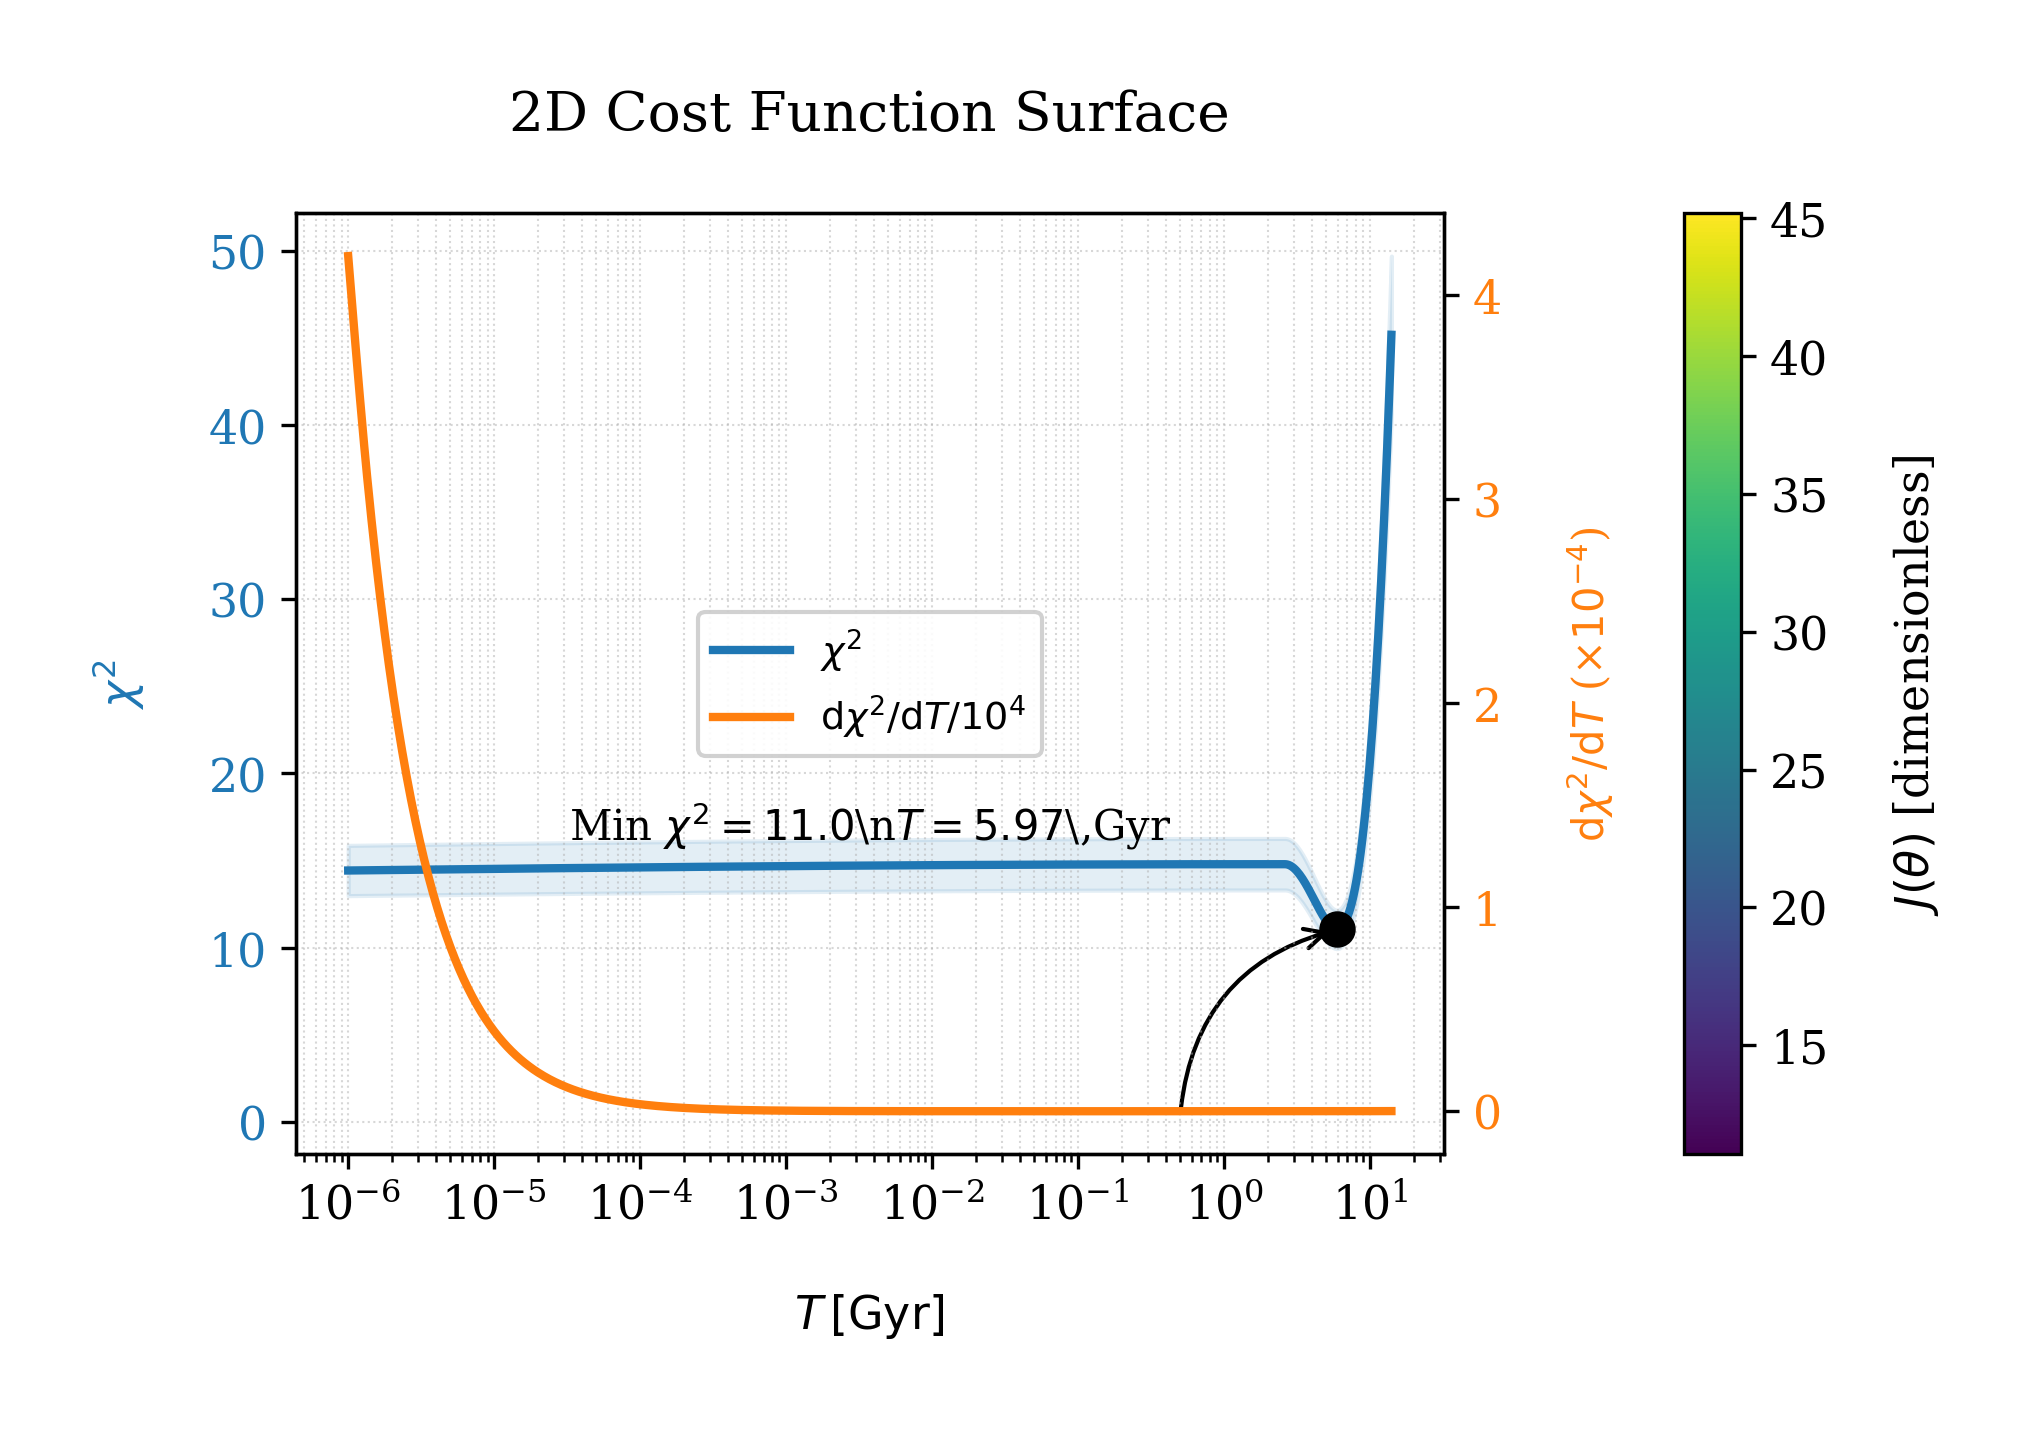
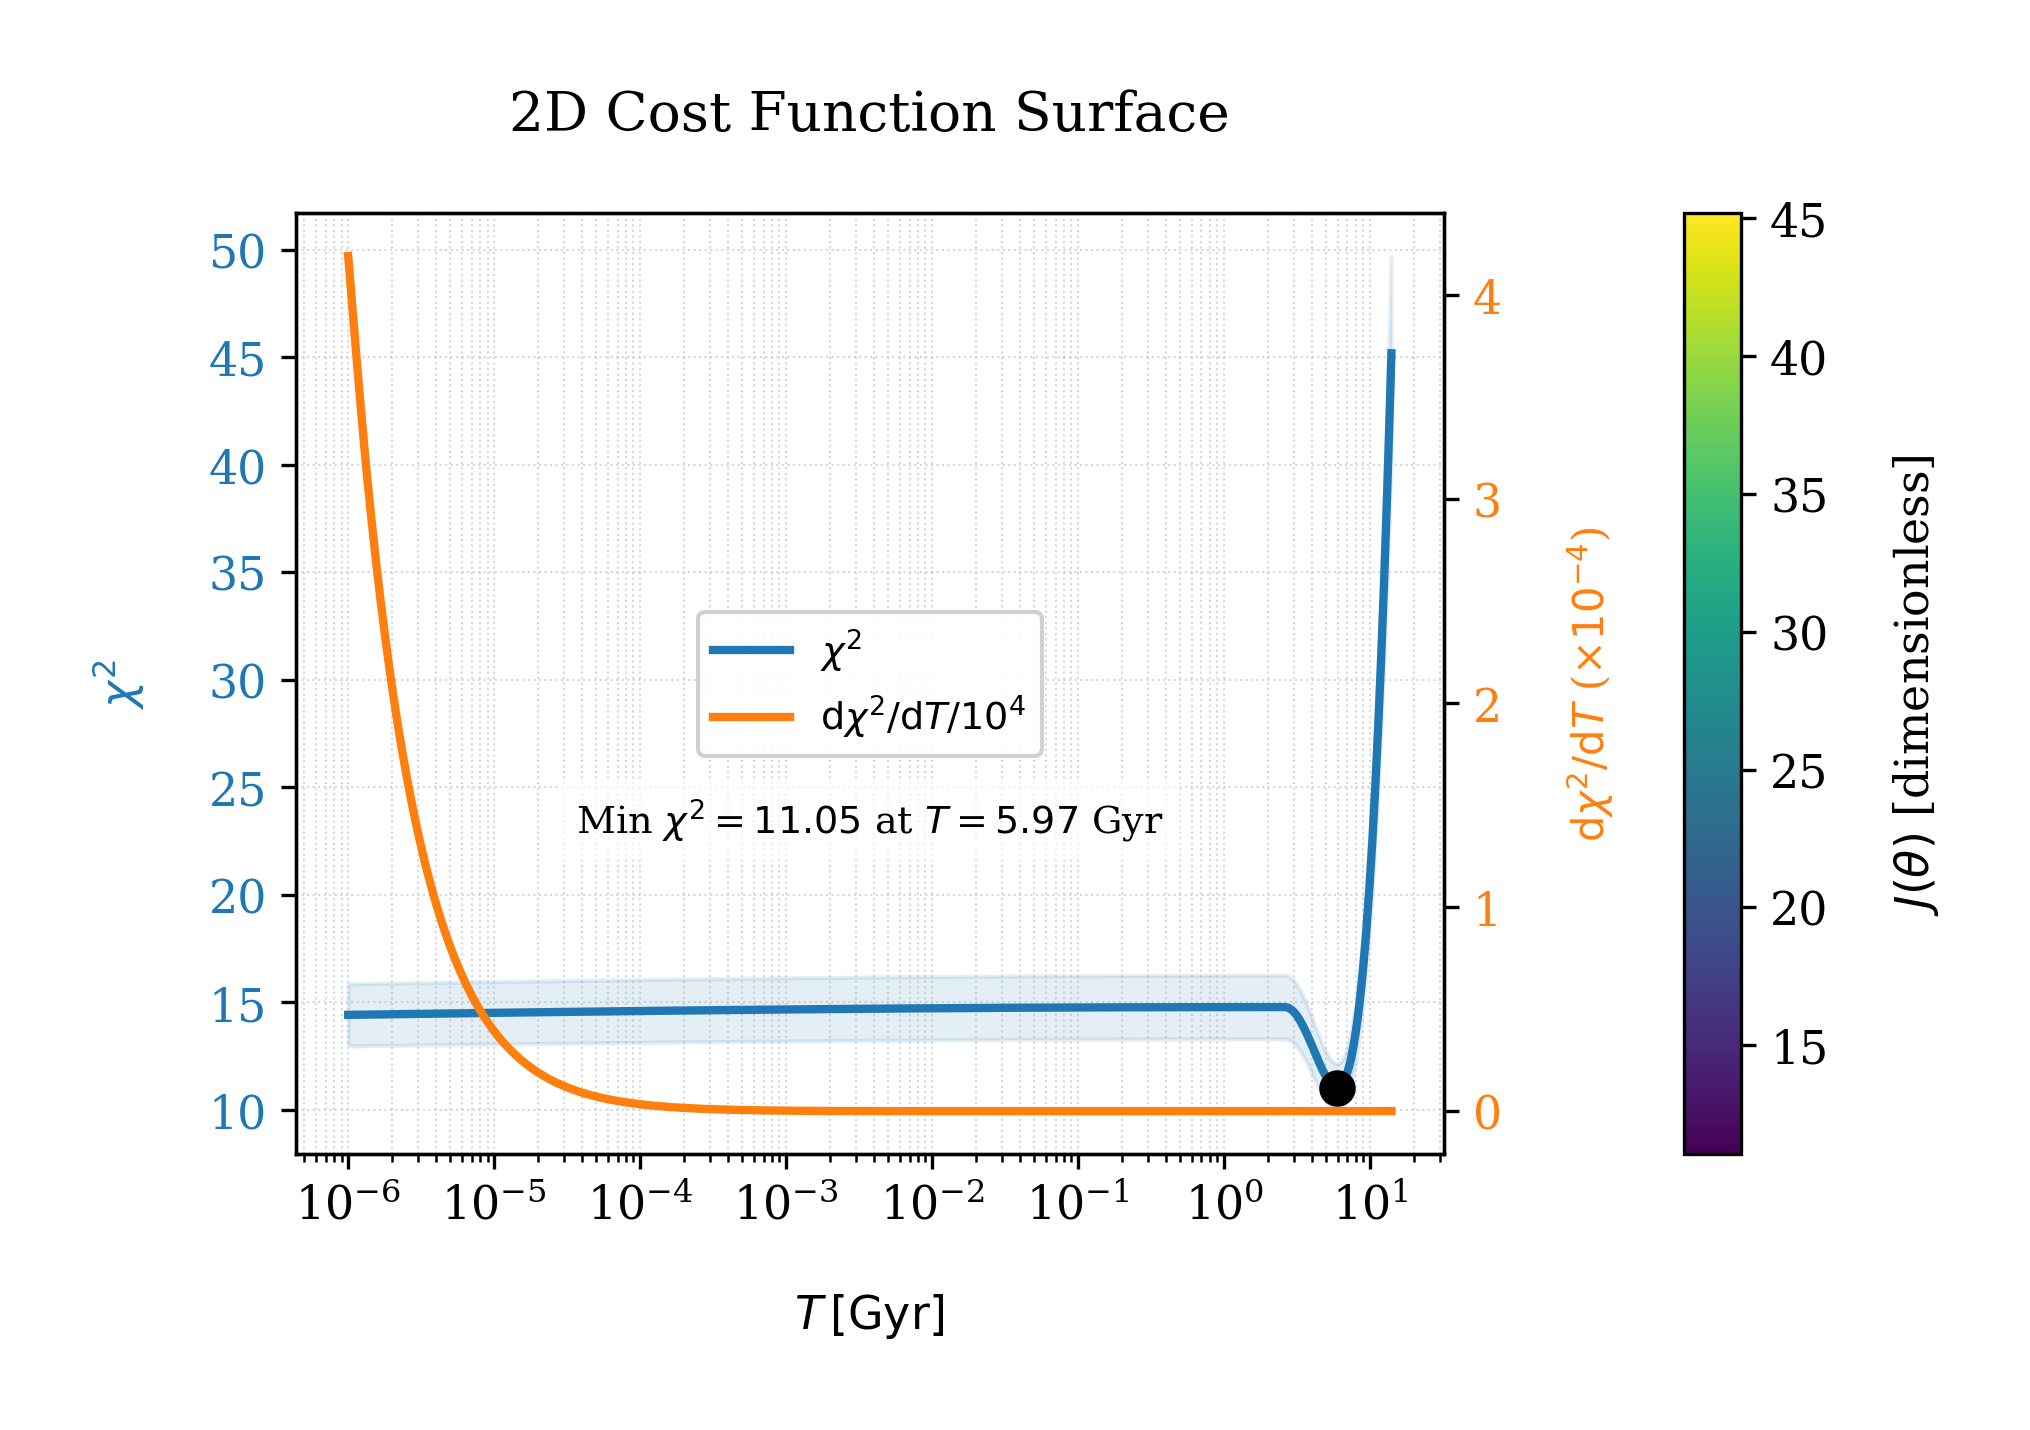
fix(viz): remove arrow and simplify min chi2 text for Fig 04 CH05

diff --git a/zz-scripts/chapter05/05_fig_04_cost_surface.py b/zz-scripts/chapter05/05_fig_04_cost_surface.py
@@ -212,28 +212,18 @@ def main(args=None) -> None:
         label=r"$\mathrm{d}\chi^2/\mathrm{d}T/10^{4}$",
     )
 
-    # point + flèche sur le minimum
+    # point de minimum + annotation textuelle
     ax1.scatter(Tmin, chi2_min, s=60, color="k", zorder=4)
-    start_display = (0.5, 0.35)  # axes fraction, below centered legend
-    start_data = ax1.transAxes.inverted().transform(ax1.transAxes.transform(start_display))
-    start_text = ax1.transAxes.transform(start_display)
-    arrow = FancyArrowPatch(
-        start_data,
-        (Tmin, chi2_min),
-        arrowstyle="->",
-        mutation_scale=12,
-        connectionstyle="arc3,rad=-0.35",
-        color="k",
-    )
-    ax1.add_patch(arrow)
-    ax1.annotate(
-        rf"Min $\chi^2={chi2_min:.1f}$\n$T={Tmin:.2f}$\,Gyr",
-        xy=start_display,
-        xycoords="axes fraction",
+    ax1.text(
+        0.5,
+        0.38,
+        rf"Min $\chi^2 = {chi2_min:.2f}$ at $T = {Tmin:.2f}$ Gyr",
+        transform=ax1.transAxes,
         ha="center",
-        va="center",
-        fontsize=10,
+        va="top",
+        fontsize="small",
         color="k",
+        bbox=dict(facecolor="white", alpha=0.7, edgecolor="none"),
     )
 
     # légende combinée
